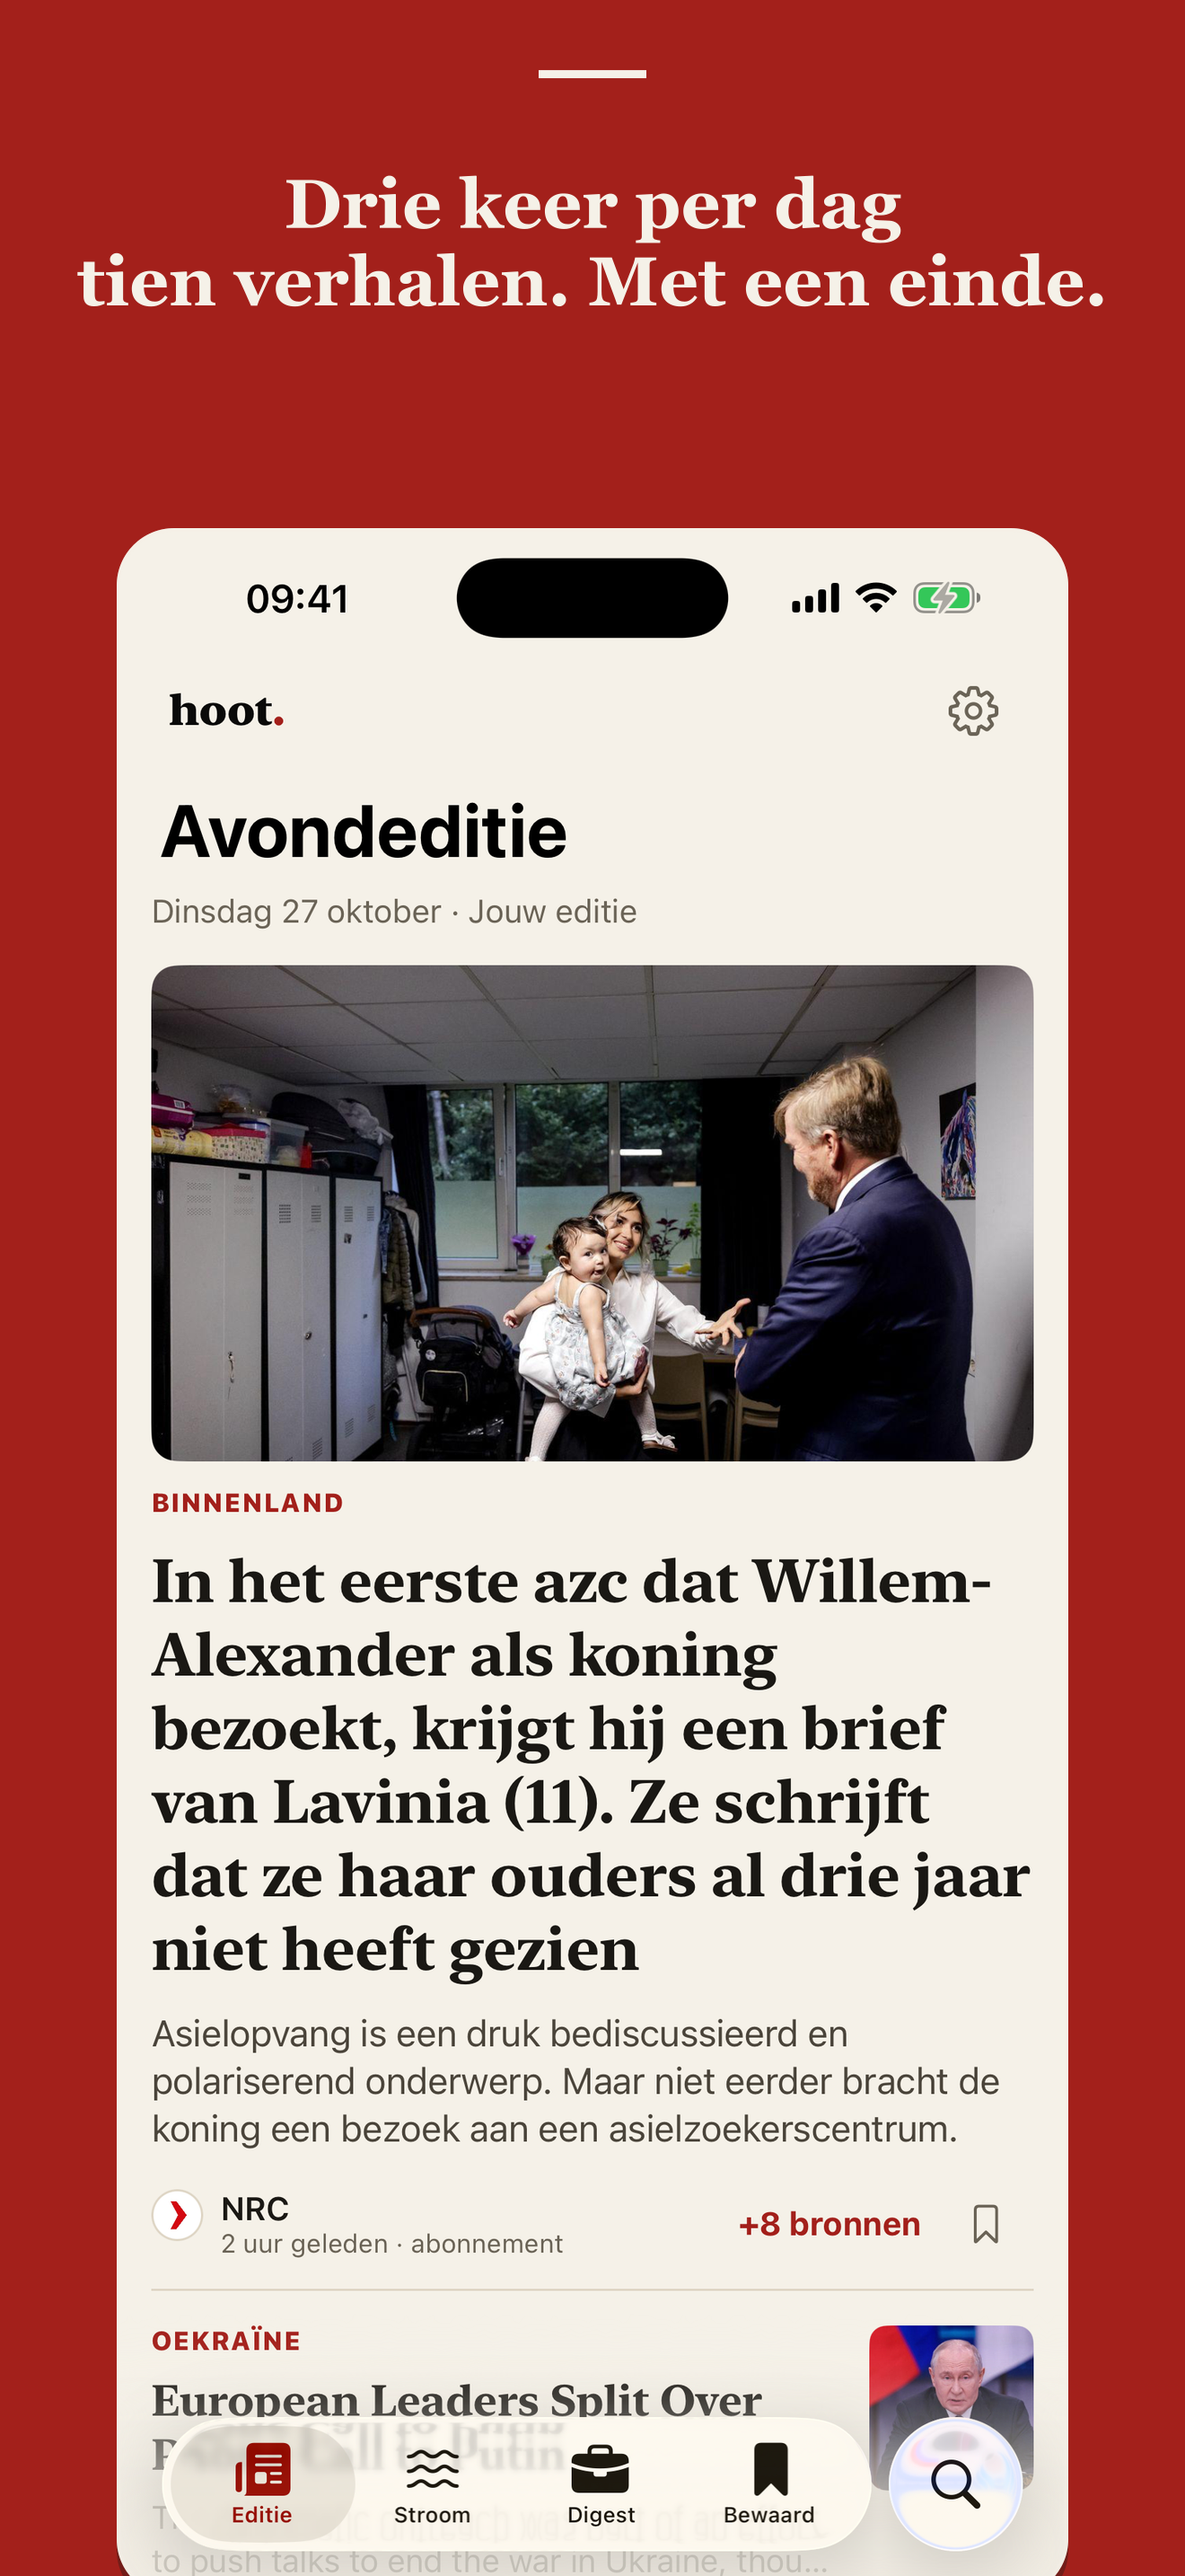
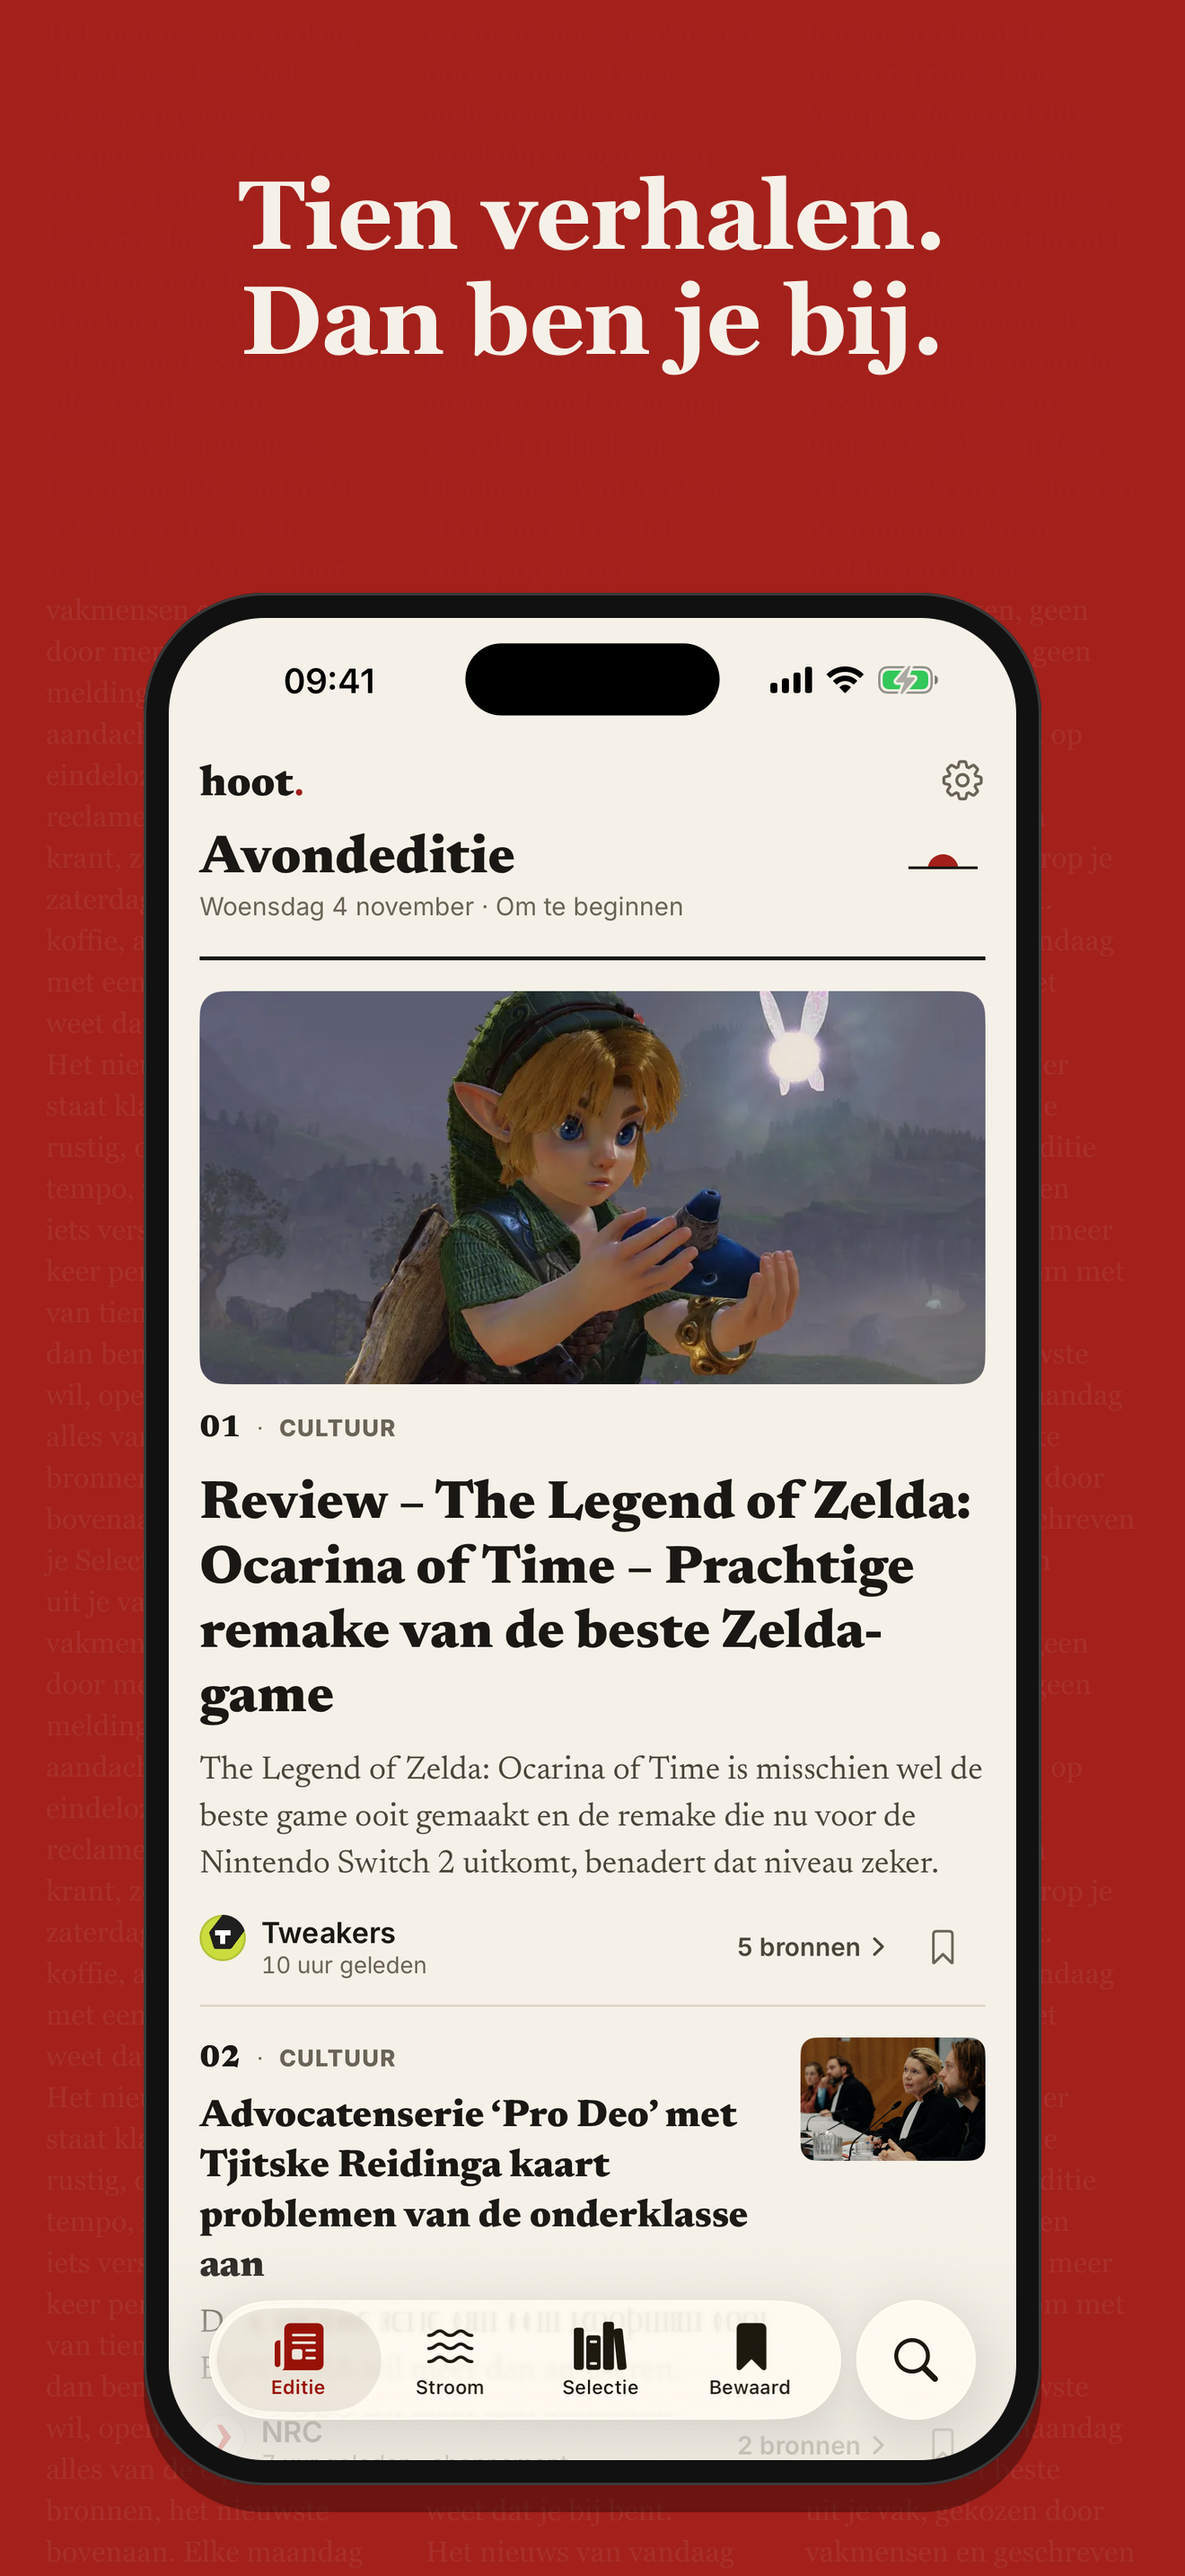
App Store 1.1.0 (build 46): schermafbeeldingen iPhone en iPad, metadata, releasenotes en reviewnotities
Nieuwe opnamen (capture-110.sh) met Editie, Vergelijken, Stroom, Selectie, lezer en Nacht; store.mjs voor 1320x2868 en 2064x2752; naam, ondertitel, beschrijving, promotietekst, zoekwoorden en Wat is nieuw bijgewerkt.

diff --git a/ios/AppStore/REVIEW-NOTES.md b/ios/AppStore/REVIEW-NOTES.md
@@ -4,12 +4,12 @@ Plak de Engelse tekst hieronder in App Store Connect → je versie → **App Rev
 
 ---
 
-Hoot News is a calm news reader for Dutch-speaking readers, made by Baldadig.nl. No account is needed: on the welcome screen, "Stel je Hoot samen" (choose interests and sources) or "Of kijk eerst even rond" (start with free Dutch sources) both give the full app. Signing in is optional and only syncs settings and saved items with the Hoot website (gethoot.app, also reachable as hootnews.nl).
+Hoot ("Hoot: Nieuws met een einde.") is a calm news reader for Dutch-speaking readers, made by Baldadig.nl. No account is needed: the welcome flow starts with interests (then sources and the optional weekly selection topics); "Liever meteen lezen" skips it and starts with free Dutch sources. Both give the full app. Signing in is optional and only syncs settings and saved items with the Hoot website (gethoot.app, also reachable as hootnews.nl).
 
 What the app does
-- Edition: three times a day (06:00, 12:00, 17:00 Amsterdam time) an edition of ten stories, composed on our server from the reader's own sources and interests. The reader's chosen sources, interests and favourite sources are sent to our server to compose it; nothing is stored.
+- Edition: three times a day (morning, midday and evening) an edition of ten numbered stories plus an optional "outside your bubble" story, composed on the device from the reader's own sources and interests (the app falls back to our server if that fails; the chosen sources and interests are then sent to compose it, and nothing is stored). Pull to refresh shows the Hoot "h." mark.
 - Compare: when several outlets cover the same story, "Vergelijk N bronnen" shows how each of them reports it.
-- Stream: all items from the reader's chosen sources, newest first. Optionally, posts from Bluesky accounts the reader adds themselves (public Bluesky API, read-only; off by default).
+- Stream: all items from the reader's chosen sources, newest first. Optionally, posts from Bluesky accounts the reader adds themselves (public Bluesky API, read-only; none are added by default).
 - Selectie (weekly selection): every Monday the three most important professional articles of the week per field (for example paid social, UI/UX, AI, e-commerce), chosen by how many trade publications covered them and by human curation.
 - Saved and Search work on the device.
 
@@ -23,7 +23,7 @@ Privacy
 
 Navigating the app
 - Tabs: Editie (Edition), Stroom (Stream), Selectie (weekly selection), Bewaard (Saved), Search. Settings: the gear button at the top right.
-- Bluesky: Settings → "Bluesky in de Stroom", then in the Stream switch to Bluesky and tap "Accounts" to add someone by @handle (for example @theverge.com).
+- Bluesky: Settings → "Bluesky in de Stroom", then add an account by @handle (for example @theverge.com); it appears in the Stream. Settings also has Weergave (System, Light, Dark, Night).
 - On iPad and on wide windows the layout switches to two columns and the tab bar can become a sidebar.
 
 Contact: see the App Review contact details.

diff --git a/ios/AppStore/CHECKLIST.md b/ios/AppStore/CHECKLIST.md
@@ -126,3 +126,10 @@ Legenda: ✅ klaar · 🟡 klaar, maar moet jij nakijken of beslissen · ⏳ moe
    - Nieuwe schermafbeeldingen (nieuw Welkom, Editie met waarom-regels, Stroom Tijdlijn/Krant, Selectie)
 6. Versie 1.0 (build 27) uit review halen, 1.0.1 (build 36) koppelen en indienen. De verklaringen en de laatste klik zijn van Alex.
 7. Daarna stilstand tot Apple accepteert.
+
+## 1.1.0 (build 46) — klaargezet in App Store Connect (4 november 2026), NIET ingediend
+
+- Versie 1.1.0 aangemaakt, build 46 gekoppeld; teksten uit `metadata/nl-NL/` (naam *Hoot: Nieuws met een einde.*, ondertitel *Jouw nieuws, rustig bij elkaar*).
+- Schermafbeeldingen: opnamen met `tools/capture-110.sh` (simulators "Hoot Pro Max" en "iPad Pro 13-inch (M5)"), kop en toestel met `tools/store.mjs`. iPhone 6,9" in `screenshots/iphone-6.9/` (kaal) en `screenshots/marketing/iphone-6.9/`; de 6,3"-slot van App Store Connect (1206 × 2622) in `screenshots/marketing/iphone-6.3/`; iPad 13" in `screenshots/ipad-13/` en `screenshots/marketing/ipad-13/`. Zes beelden: Editie, Vergelijken, Stroom, Selectie, lezer, Nacht.
+- Releasenotes: zie `../../RELEASENOTES-BUILD-46.md` (geen emoji: App Store Connect weigert die).
+- Nog te doen door Alex: zie de overdracht in het gesprek (indienen, uitnodigingscode in de reviewnotities, Selectie-week bij vers beeld).

diff --git a/RELEASENOTES-BUILD-46.md b/RELEASENOTES-BUILD-46.md
@@ -1,0 +1,10 @@
+# Hoot 1.1.0 · Build 46 · Wat is nieuw (App Store, Nederlands)
+
+Een nieuwe ochtend voor Hoot.
+• Begin bij je interesses: daar stelt Hoot je bronnen en je Editie op af.
+• Tien verhalen met beeld en intro, in een nieuw lettertype, met je bubbelverhaal apart erna.
+• Trek om te verversen. Nacht is echt zwart en Verenigde Staten heeft een eigen plek.
+• Voeg je eigen Bluesky-accounts toe aan je Stroom.
+Rustig bijblijven.
+
+Toetsing aan de stijlgids (Hoot-design/RELEASENOTES-STIJLGIDS.md): 354 tekens (max 500); positief; geen kloktijden; Editie, Stroom en Selectie met hoofdletter; geen uitroeptekens. Let op: App Store Connect weigert emoji in "Wat is nieuw" ("invalid characters"), daarom staat de uil 🦉 uit de opening weg. Bluesky is persoonlijk (eigen accounts, uit tot je ze toevoegt).
